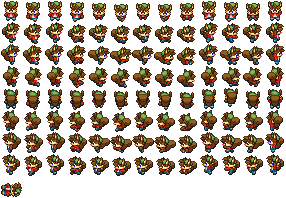
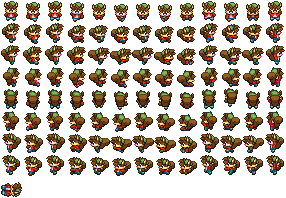
Update Midi

diff --git a/CHANGES.md b/CHANGES.md
@@ -6,6 +6,8 @@
 
 * **Add hardegvin sprite** - The hardegvins are a pair of characters I made for comedy. They're pranksters and they stand out by the hard hats they wear. In fact, the name is a portmanteau of hard and hidegvin, which is a portmanteau of hideg, which is Icelandic for chill, and pingvin, Icelandic for penguin. The two will mainly serve as comic relief in some scenes.
 
+* **Update Midi sprite** - MAJOR update here! I got the ears trimmed on the overworld sprite, added a couple new poses to the platformer, and... you see those three new rows? That's how his sphere will look on magnetic rails! Yep, I'm putting those in as well. He'll be able to use them once he learns the thunderbomb and uses that to magnetize his transphere.
+
 ## 21-JUN-2018
 
 * **Change date format** - Sort of. Just made the month a word instead of a number so it's easier to tell I'm using DD-MM-YYYY.
